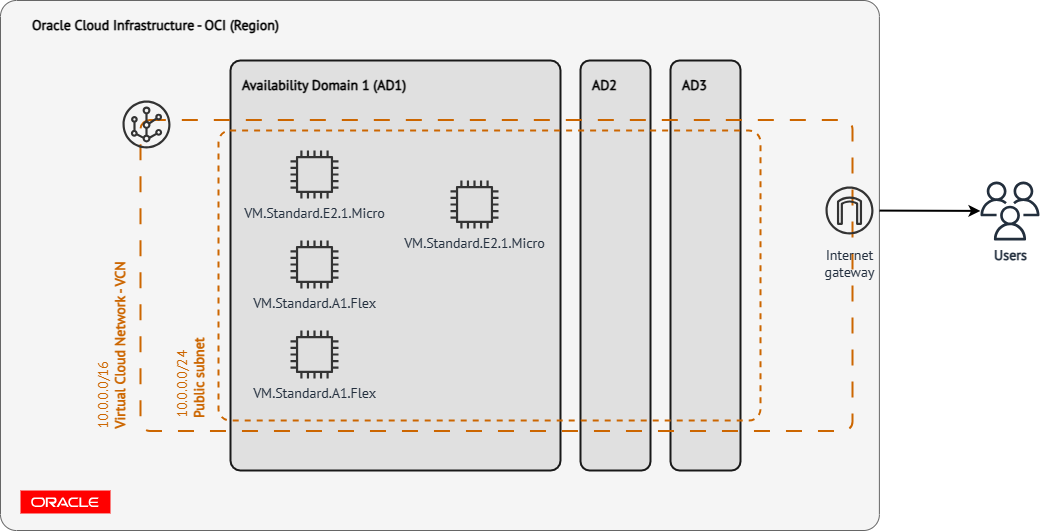
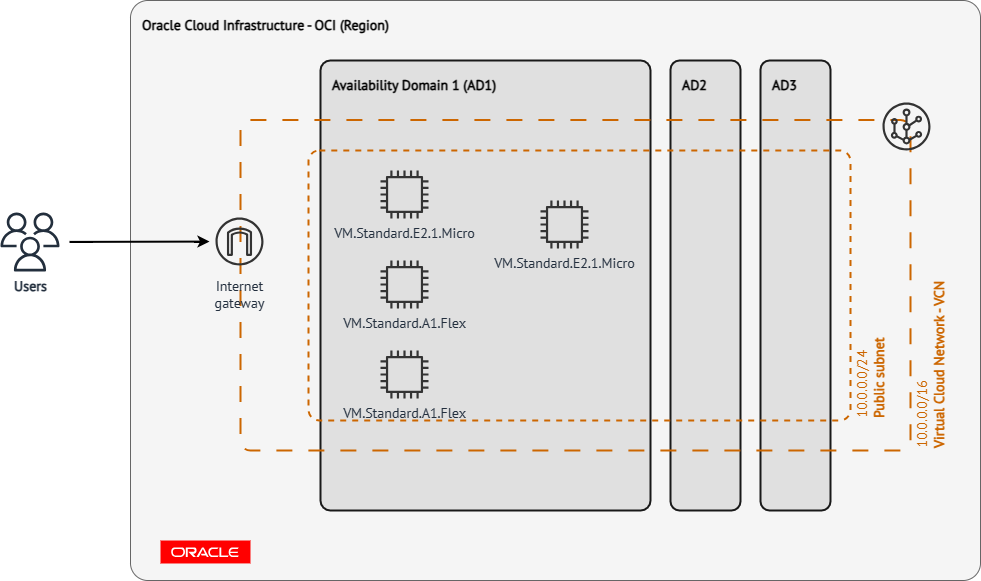
doc(): update readme

diff --git a/README.md b/README.md
@@ -46,6 +46,9 @@ See the [Development guide](docs/development-guide.md) to learn how to run and d
 
 ![Terraform Infrastructure](docs/imgs/infrastructure.png)
 
+
+![Availability Domain 1 (AD1)](docs/imgs/infrastructure-ad1.png)
+
 ## Sponsors
 
 ![NashTech Vietnam](docs/imgs/nashTech-logo-red.svg)